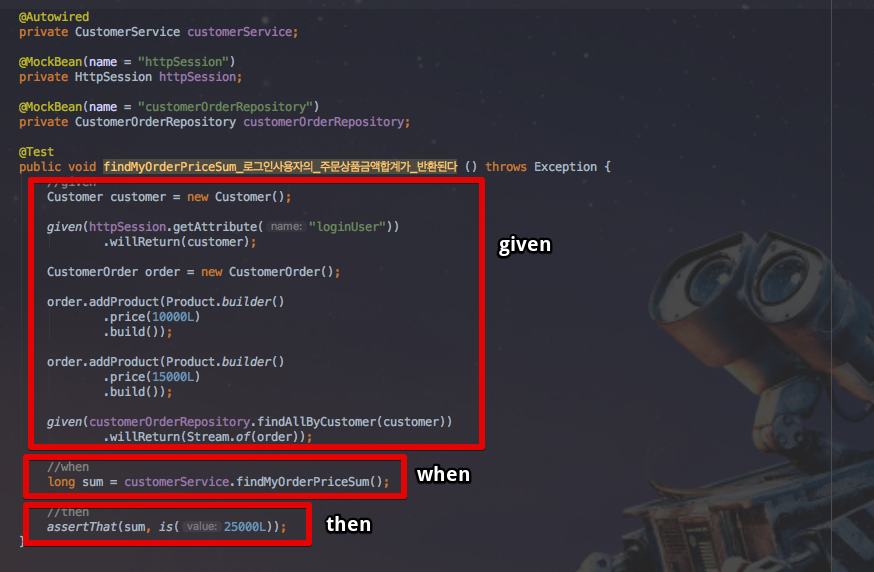
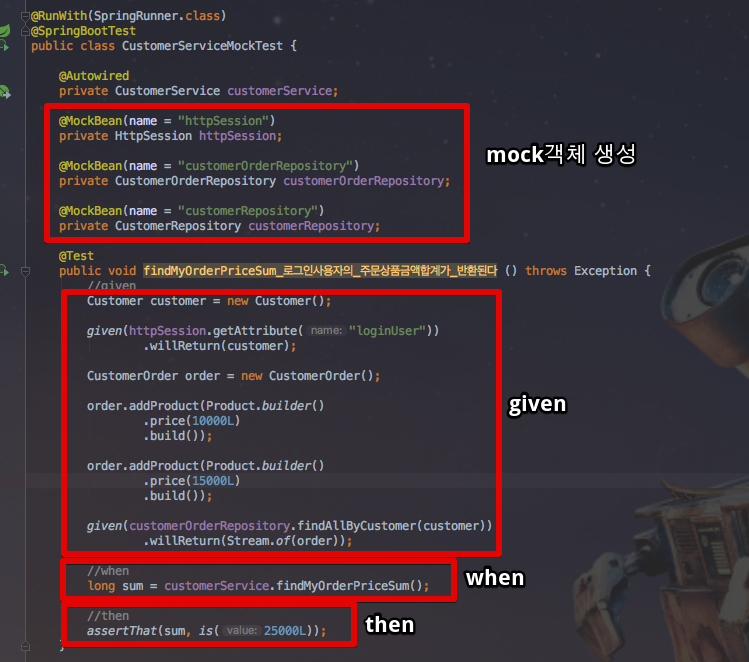
[mock-spy-bean] @MockBean 완성

diff --git a/spring-mock-spy-bean/README.md b/spring-mock-spy-bean/README.md
@@ -1,37 +1,37 @@
 # @MockBean, @SpyBean
 
-안녕하세요? 이번 시간엔 SpringBoot의 @MockBean, @SpyBean 예제를 진행해보려고 합니다.  
+안녕하세요? 이번 시간엔 SpringBoot의 ```@MockBean```, ```@SpyBean``` 예제를 진행해보려고 합니다.  
 모든 코드는 [Github](https://github.com/jojoldu/blog-code/tree/master/spring-mock-spy-bean)에 있기 때문에 함께 보시면 더 이해하기 쉬우실 것 같습니다.  
 (공부한 내용을 정리하는 [Github](https://github.com/jojoldu/blog-code)와 세미나+책 후기를 정리하는 [Github](https://github.com/jojoldu/review), 이 모든 내용을 담고 있는 [블로그](http://jojoldu.tistory.com/)가 있습니다. )<br/>
 
 
-## 소개
+## 들어가며
 
-[SpringBoot 1.4](https://docs.spring.io/spring-boot/docs/current/reference/html/boot-features-testing.html#boot-features-testing-spring-boot-applications-mocking-beans)에 도입된 2개의 테스트 어노테이션 ```@MockBean```, ```@SpyBean```을 소개드리려고 합니다.  
+[SpringBoot 1.4](https://docs.spring.io/spring-boot/docs/current/reference/html/boot-features-testing.html#boot-features-testing-spring-boot-applications-mocking-beans)에서 2개의 테스트 어노테이션 ```@MockBean```, ```@SpyBean``` 이 추가되었습니다.  
+(기존에 [Mockito](http://site.mockito.org/)를 통해 Mock 테스트를 진행하신 분들에게 좀 더 편의성을 제공해주기 위함인것 같습니다.)  
+  
+유닛테스트에 익숙하지 않을때는 테스트 코드 작성을 통합테스트 (Integration Test)로 작성하였습니다.  
+(즉, 하나의 Service 메소드 단위로 테스트 코드를 작성하였습니다.)  
+서비스 메소드가 단순하다면 문제가 없지만 보통은 **여러 레파지토리와 비지니스 로직이 함께** 있어, 많은 불편함에 마주쳤습니다.
 
-기존에 테스트 코드를 작성하면 하나의 Service 메소드 단위로 테스트를 수행하는 경우가 많습니다.  
-서비스 메소드가 단순하다면 문제가 없지만 보통은 여러 레파지토리와 비지니스 로직이 함께 있습니다.  
-이 테스트 메소드가 검증하는데 수행되는 시간이 10분이라면 어떨까요?  
-**피드백이 늦어질수록 생산성은 극도로 낮아집니다.**
+* 불필요한 데이터 생성이 많습니다.
+* 테스트 대상 범위가 넓어져 실제 테스트 대상에 집중할 수 없습니다.
+* 테스트 코드 수행시간이 길어져 피드백이 느립니다.
+* 테스트 상황 설정이 어렵습니다 (로그인상태, 보안처리 등등)
+
+간단한 예제로 확인해보겠습니다.
+
+### 문제상황  
+
+기본적인 상황을 설정하기 위해 다음과 같은 Entity 클래스를 생성하겠습니다.
+
+* Customer
+* CustomerOrder
+* Product
+* OrderProductMap
 
 
-
-### 테스트더블
-
-목적에 따라 비슷한듯하면서도 다른 객체를 사용하는 모든 행위를 **테스트 더블**이라 합니다.  
-
-종종 
-
-![테스트더블](./images/테스트더블.png)
-
-* 테스트 대상 코드 격리
-* 테스트 속도 개선
-* 예측 불가능한 실행 요소 제거
-* 특수한 상황 테스트 가능
-* 
-
-
-Customer.java
+ ```Customer.java```
 
 ```java
 
@@ -63,7 +63,7 @@ public class Customer {
 
 ```
 
-CustomerOrder.java
+ ```CustomerOrder.java```
 
 ```java
 @Entity
@@ -114,7 +114,7 @@ public class CustomerOrder {
 
 ```
 
-Product.java
+ ```Product.java```
 
 ```java
 @Entity
@@ -144,8 +144,7 @@ public class Product {
 }
 ```
 
-
-OrderProductMap.java
+ ```OrderProductMap.java```
 
 ```java
 @Entity
@@ -172,32 +171,144 @@ public class OrderProductMap {
 
 ```
 
-위와 같이 도메인 상황에서 
+그리고 테스트할 서비스 메소드는 아래와 같습니다.
 
 ![findMyOrderPriceSum](./images/findMyOrderPriceSum.png)
 
+1. 세션에서 사용자정보(```Customer```)를 가져옵니다.
+2. 사용자 정보로 주문정보(```CustomerOrder```)를 조회합니다.
+3. 주문정보에서 ```Product``` 목록을 가져옵니다.
+4. ```Product```들의 price 합을 계산합니다.
+
+굉장히 많은 과정이 필요합니다.  
+이를 위한 통합 테스트를 작성하겠습니다.
 
 ![통합테스트코드](./images/통합테스트코드.png)
 
+1. Customer 인스턴스의 **필수값들을 채운후**, DB에 저장합니다.
+2. 생성한 Customer 인스턴스를 세션에 저장합니다.
+3. **필수값들을 채운** Product 인스턴스들을 DB에 저장합니다.
+4. CustomerOrder 인스턴스의 필수값을 채운후 DB에 저장합니다.
+5. CustomerOrder 인스턴스에 Product 인스턴스를 추가합니다. 
+6. Product 인스턴스가 추가된 CustomerOrder 인스턴스를 다시한번 DB에 반영합니다. (이 경우는 테스트 메소드에 ```@Transactional```이 선언되면 생략할 수 있습니다.)
 
 ![테스트통과](./images/테스트통과.png)
 
+테스트는 정상적으로 통과했습니다.  
+하지만 코드를 보시면 어떠신가요?  
+여기서 실제로 테스트 해야할 코드가 보이시나요?  
+실제 **테스트 대상과는 무관한 객체와 필드가 너무 많아** 코드 작성 자체가 부담스럽습니다.  
+자 그럼 이런 부담스러운 부분을 Mock 테스트를 통해 해결해보겠습니다.
 
-![mock테스트코드](./images/mock테스트코드.png)
 
-![mock테스트통과](./images/mock테스트통과.png)
+[[ad]]
 
-![exception mock테스트코드](./images/exception_mock테스트코드.png)
+## 해결
 
+위 테스트 코드의 가장 큰 문제는 무엇일까요?  
+하나의 테스트를 위해 **필요한 주변 코드가 너무 많다는 것**입니다.  
+1. DB에 저장하기 위해 각 Entity들은 필수값을 모두 채워야만 합니다.
+2. Repository에서 조회하기 위해 Entity간 연관관계를 모두 형성해야 합니다.
+3. HttpSession 저장등 외부 모듈에 대한 작업이 추가됩니다.
+
+테스트 대상 코드와 주변 부분을 격리시키지 못해 이렇게 많은 불편함이 발생했습니다.  
+**테스트 하는 코드가 주변 코드와 확실하게 격리**할 수 있는 방법이 있습니다.
+
+### 테스트 더블
+
+목적에 따라 비슷한듯 하면서도 다른 객체를 사용하는 모든 행위를 **테스트 더블**이라 합니다.  
+(Stub, Dummy, Mock, Spy 등등)  
+
+![테스트더블](./images/테스트더블.png)
+
+(테스트 더블로 대체하여 테스트 범위를 대상코드 자체의 동작과 협력객체와의 연계동작으로만 제한할 수 있습니다.)  
+  
+  
+테스트 더블을 사용하면 여러 장점이 있습니다.
+
+* 테스트 대상 코드 격리
+* 테스트 속도 개선
+* 예측 불가능한 실행 요소 제거
+* 특수한 상황 테스트 가능
+* 감춰진 정보를 확인 가능
+
+딱 지금 상황에 필요한 모든 장점이 있습니다!  
+실제로 한번 사용해보겠습니다.
 
 ### @MockBean
 
+아래에 나온 코드외에 좀더 많은 내용을 알고 싶으시다면 [스프링부트 레퍼런스](https://docs.spring.io/spring-boot/docs/current/reference/html/boot-features-testing.html#boot-features-testing-spring-boot-applications-mocking-beans), [Mockito 위키 - 한글버전](https://github.com/mockito/mockito/wiki/Mockito-features-in-Korean)을 방문해주세요.  
+  
+  
+Mock은 껍데기만 있는 객체를 얘기합니다.  
+인터페이스의 추상메소드가 메소드 바디는 없고 파라미터 타입과 리턴타입만 선언된 것처럼, Mock Bean은 **기존에 사용되던 Bean의 껍데기만 가져오고 내부의 구현 부분은 모두 사용자에게 위임**한 형태입니다.  
+즉, 해당 Bean의 어떤 메소드가 어떤 값이 입력 되면 어떤 값이 리턴 되어야 한다는 내용은 모두 **개발자 필요에 의해서 조작이 가능**합니다.  
+  
+위에서 사용한 코드를 한번 변경해보겠습니다.
+
+![mock테스트코드](./images/mock테스트코드.png)
+
+(given 코드가 절반 이하로 줄었습니다.)
+
+* ```@MockBean```
+  * 기존에 사용되던 스프링 Bean이 아닌 Mock Bean을 주입합니다.
+  * 어노테이션 내부에 문자열 값을 등록한 것은 **기존에 선언된 Bean 객체를 덮어쓰기 위함**입니다.
+  * 만약 Bean의 이름을 강제로 지정하지 않으면, Spring에선 어떤 Bean을 가져와야할지 알수 없어 오류가 발생합니다.
+
+* ```given```
+  * 해당 Mock Bean이 **어떤 행동을 취하면 어떤 결과를 반환한다**를 선언하는 부분입니다.
+  * ```given(httpSession.getAttribute("loginUser")).willReturn(customer)``` 를 예로 들면
+  * ```given(httpSession.getAttribute("loginUser"))``` : ```httpSession.getAttribute()```를 호출할때 파라미터 값이 ```"loginUser"```라면
+  * ```.willReturn(customer)``` : ```customer```를 리턴하라는 의미 입니다.
+
+자 위와 같이 테스트 코드를 실행하면 테스트 수행시 ```httpSession```, ```CustomerOrderRepository```는 모두 테스트 코드에서 선언한 **Mock Bean이 주입되어 실행**됩니다.  
+테스트할 코드인 ```CustomerService``` 역시 ```httpSession```, ```CustomerOrderRepository```를 Mock Bean이기 때문에 메소드 호출시에 ```given```에서 선언된 값이 반환됩니다.  
+아주 간단하죠?  
+  
+실제로 잘 작동하는지 확인해볼까요
+
+![mock테스트통과](./images/mock테스트통과.png)
+
+아주 잘 작동하는 것을 확인할 수 있습니다.  
+추가로 한가지 더 수행해보겠습니다.  
+
+![exception_코드](./images/exception_코드.png)
+
+위와 같은 메소드에서 **조회되는 값이 없으면 ```ResourceNotFoundException```이 발생**하는것을 테스트하고 싶다고 가정 하겠습니다.  
+이런 상황도 ```@MockBean```을 쓴다면 쉽게 해결됩니다.
+
+![exception mock테스트코드](./images/exception_mock테스트코드.png)
+
+ ```willReturn```에서 ```Optional.empty()```를 반환하도록 선언만 하면 됩니다.  
+  
+
+처음 작성한 통합 테스트 코드와 한번 비교해보셨으면 합니다.  
+테스트더블을 통해 테스트 코드 외에 다른 코드가 거의 사라진 것을 알 수 있습니다.  
+특히 **불필요한 필드를 채울 필요가 없게** 되었습니다.  
+  
+개발자가 좀 더 어떤 기능에, 어떤 상황/결과에 집중해야하는지 확연하게 알 수 있습니다.
+
+> 여기서는 간단한 소개만 할 예정입니다.  
+좀 더 자세한 내용은 [Mockito 위키 - 한글버전](https://github.com/mockito/mockito/wiki/Mockito-features-in-Korean)를 참고하세요!  
+
+[[ad]]
 
 ### @SpyBean
 
-현재 ```@SpyBean```은 DataJpaRepository 인터페이스에서는 작동되지 않습니다.  
+ ```@SpyBean```은 말그대로 Spy(스파이)입니다.  
+영화를 보면 한 조직에 스파이가 침투해서 여러 교란작업을 수행합니다.  
+여기서 **스파이는 조직 전체에 퍼져있지 않고, 조직 구성원 중 1명 혹은 일부분**입니다.  
+스파이외에 **다른 조직원들은 모두 진짜 조직원**입니다.  
+  
+마찬가지로 
 
+현재(v1.5.7 / 2017.09.20) ```@SpyBean```은 SpringDataJpaRepository 인터페이스에서는 작동되지 않습니다.  
+(참고: [@SpyBean on Data Jpa Repository bean isn't working](https://github.com/spring-projects/spring-boot/issues/7033) )  
+  
+> 아마도 ```JpaRepository```가 이미 프록시 객체로 구현하기 때문에 거기에 다시 프록시를 씌우는게 안되는게 아닐까 싶은데 개인적인 추측입니다^^;
 
-[@SpyBean on Data Jpa Repository bean isn't working](https://github.com/spring-projects/spring-boot/issues/7033) 
-
+이 이슈는 해결할 예정이라고 답글이 있는데요, philwebb은 repository에서는 spy보다는 mock을 써야한다고 합니다.   
 ![github_issue](./images/github_issue.png)
+
+무슨말이냐 하면, 
+
